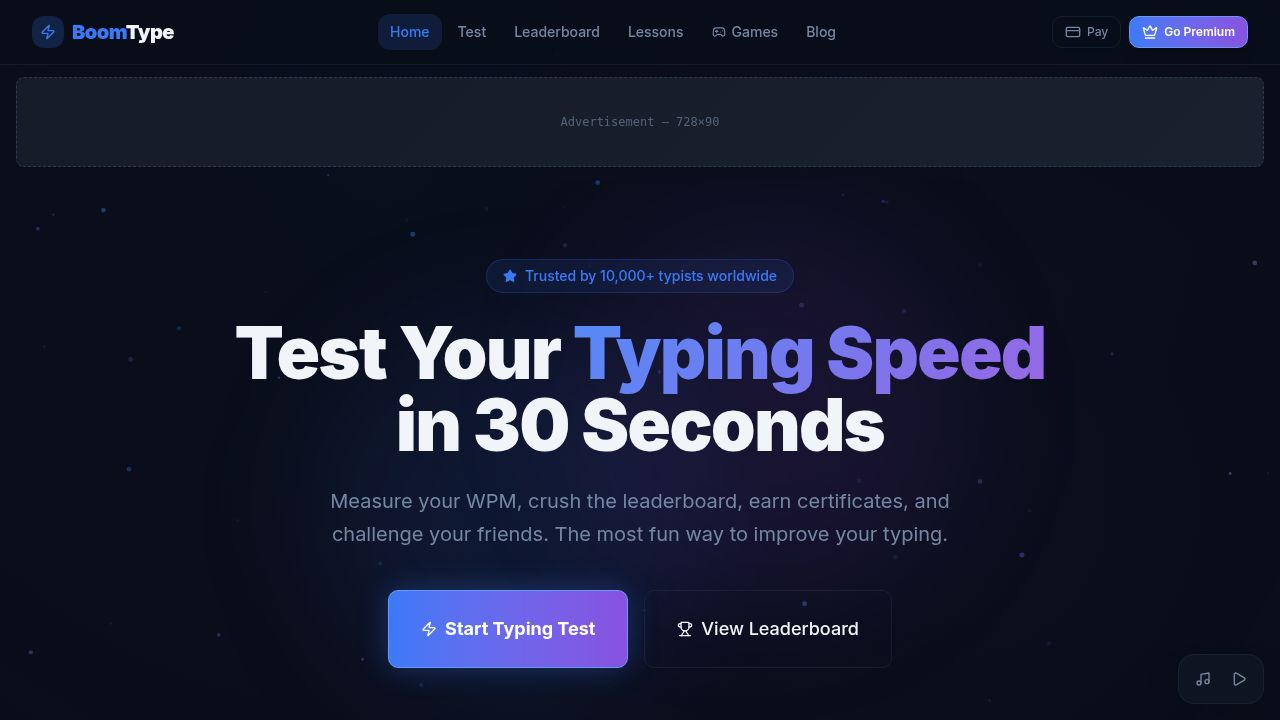
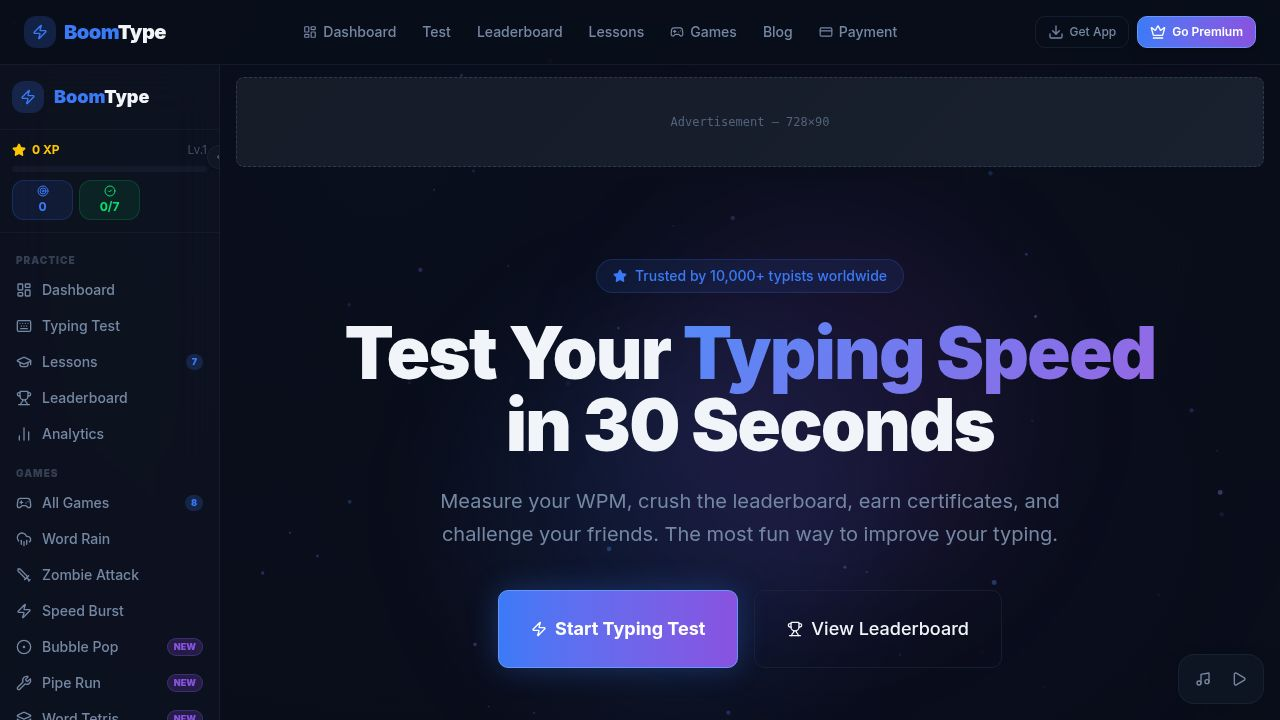
feat: submit mini-game scores to server leaderboard after each game
Task: Submit mini-game scores to the server leaderboard after each game (#5)

## Changes

### Game Pages (WordRain, ZombieAttack, SpeedBurst)
- Imported `useSubmitGameScore` from `@user/api-client-react` in all three game files
- Added the mutation hook inside each component with `onSuccess: () => setScoreSubmitted(true)`
- Replaced the stub `submitToLeaderboard` (which only set local state) with a real API call:
  - WordRain → POST /api/scores/games with game: "word-rain"
  - ZombieAttack → POST /api/scores/games with game: "zombie-attack"
  - SpeedBurst → POST /api/scores/games with game: "speed-burst"
- The nickname input + auto-submit flow was already in place; only the network call was missing
- localStorage high scores are still saved for offline/local display

### Leaderboard Page
- Imported `useGetGameLeaderboard` and `getGetGameLeaderboardQueryKey` from the API client
- Replaced localStorage-only game score display with a live server query
- The mini-game rankings section now fetches `GET /api/scores/games?game=<activeGame>&limit=10`
- Shows ranked entries (rank badge, nickname, score, unit label) with loading state
- Switches query when the active game tab changes (word-rain / zombie-attack / speed-burst)

### Lib rebuild
- Ran `pnpm run typecheck:libs` to update compiled declarations so the new hooks
  (useSubmitGameScore, useGetGameLeaderboard) were available to the frontend typecheck

## Verification
- `pnpm --filter @user/boomtype run typecheck` passes clean
[…]

diff --git a/artifacts/boomtype/src/pages/Leaderboard.tsx b/artifacts/boomtype/src/pages/Leaderboard.tsx
@@ -2,8 +2,13 @@ import { useState, useEffect } from "react";
 import { Link } from "wouter";
 import { motion } from "framer-motion";
 import { Trophy, Medal, CloudRain, Sword, Zap } from "lucide-react";
-import { useGetLeaderboard, getGetLeaderboardQueryKey } from "@workspace/api-client-react";
-import type { GetLeaderboardParams } from "@workspace/api-client-react";
+import {
+  useGetLeaderboard,
+  getGetLeaderboardQueryKey,
+  useGetGameLeaderboard,
+  getGetGameLeaderboardQueryKey,
+} from "@workspace/api-client-react";
+import type { GetLeaderboardParams, GetGameLeaderboardParams } from "@workspace/api-client-react";
 import { getLevelColor } from "@/lib/words";
 import AdBanner from "@/components/AdBanner";
 
@@ -43,11 +48,10 @@ export default function Leaderboard() {
     query: { queryKey: getGetLeaderboardQueryKey(params) }
   });
 
-  const gameHighScores: Record<GameId, number> = {
-    "word-rain":     parseFloat(localStorage.getItem("boomtype_wordrain_hs") || "0"),
-    "zombie-attack": parseFloat(localStorage.getItem("boomtype_zombie_hs") || "0"),
-    "speed-burst":   parseFloat(localStorage.getItem("boomtype_speedburst_hs") || "0"),
-  };
+  const gameParams: GetGameLeaderboardParams = { game: activeGame, limit: 10 };
+  const { data: gameLeaderboard, isLoading: gameLeaderboardLoading } = useGetGameLeaderboard(gameParams, {
+    query: { queryKey: getGetGameLeaderboardQueryKey(gameParams) }
+  });
 
   const rankStyle = (rank: number) => {
     if (rank === 1) return { bg: "bg-yellow-500/15", text: "text-yellow-400", border: "border-yellow-500/30" };
@@ -225,33 +229,33 @@ export default function Leaderboard() {
             </Link>
           </div>
 
-          {gameHighScores[activeGame] > 0 ? (
+          {gameLeaderboardLoading ? (
+            <div className="p-8 text-center">
+              <div className="w-8 h-8 rounded-full border-2 border-primary border-t-transparent animate-spin mx-auto mb-3" />
+              <p className="text-muted-foreground text-sm">Loading rankings...</p>
+            </div>
+          ) : gameLeaderboard && gameLeaderboard.length > 0 ? (
             <div className="divide-y divide-border/40">
-              {GAME_TABS.map((g) => {
-                const hs = parseFloat(localStorage.getItem(
-                  g.value === "word-rain" ? "boomtype_wordrain_hs"
-                  : g.value === "zombie-attack" ? "boomtype_zombie_hs"
-                  : "boomtype_speedburst_hs"
-                ) || "0");
-                if (hs <= 0) return null;
-                const style = g.value === activeGame ? rankStyle(1) : rankStyle(10);
+              {gameLeaderboard.map((entry, i) => {
+                const style = rankStyle(entry.rank);
                 return (
                   <motion.div
-                    key={g.value}
+                    key={entry.nickname}
                     initial={{ opacity: 0, x: -20 }}
                     animate={{ opacity: 1, x: 0 }}
+                    transition={{ delay: i * 0.05 }}
                     className="flex items-center gap-4 p-4"
                   >
                     <div className={`w-9 h-9 rounded-xl flex items-center justify-center text-sm font-black ${style.bg} ${style.text}`}>
-                      <Trophy className="w-4 h-4" />
+                      {entry.rank <= 3 ? <Medal className="w-4 h-4" /> : entry.rank}
                     </div>
                     <div className="flex-1 min-w-0">
-                      <div className="font-semibold truncate">{g.label}</div>
-                      <div className="text-xs text-muted-foreground">Your best score</div>
+                      <div className="font-semibold truncate">{entry.nickname}</div>
+                      <div className="text-xs text-muted-foreground">#{entry.rank} all time</div>
                     </div>
                     <div className="text-right">
-                      <div className={`text-2xl font-black ${g.color}`}>{Math.round(hs)}</div>
-                      <div className="text-xs text-muted-foreground">{SCORE_UNIT[g.value]}</div>
+                      <div className={`text-2xl font-black ${activeGameTab.color}`}>{Math.round(entry.score)}</div>
+                      <div className="text-xs text-muted-foreground">{SCORE_UNIT[activeGame]}</div>
                     </div>
                   </motion.div>
                 );
@@ -260,7 +264,7 @@ export default function Leaderboard() {
           ) : (
             <div className="p-12 text-center">
               <activeGameTab.icon className={`w-12 h-12 ${activeGameTab.color} opacity-30 mx-auto mb-3`} />
-              <p className="text-muted-foreground">No game scores yet — play to set a high score!</p>
+              <p className="text-muted-foreground">No scores yet — be the first to play!</p>
               <Link href={`/games/${activeGame}`} className="inline-block mt-4 text-sm text-primary hover:underline">
                 Play {activeGameTab.label} →
               </Link>

diff --git a/artifacts/boomtype/src/pages/SpeedBurst.tsx b/artifacts/boomtype/src/pages/SpeedBurst.tsx
@@ -6,6 +6,7 @@ import { Button } from "@/components/ui/button";
 import { WORD_LIST } from "@/lib/words";
 import { useGameSounds } from "@/hooks/useGameSounds";
 import { getNickname, setNickname } from "@/lib/storage";
+import { useSubmitGameScore } from "@workspace/api-client-react";
 
 const HIGH_SCORE_KEY = "boomtype_speedburst_hs";
 
@@ -40,6 +41,9 @@ export default function SpeedBurst() {
   const spawnRef = useRef<ReturnType<typeof setInterval> | null>(null);
   const comboRef = useRef(0);
   const { playCorrect, playGameOver, playCombo } = useGameSounds();
+  const { mutate: submitScore } = useSubmitGameScore({
+    mutation: { onSuccess: () => setScoreSubmitted(true) },
+  });
 
   bubblesRef.current = bubbles;
   comboRef.current = combo;
@@ -53,8 +57,8 @@ export default function SpeedBurst() {
   const submitToLeaderboard = useCallback((fs: number, nick: string) => {
     if (!nick.trim() || fs <= 0) return;
     setNickname(nick.trim());
-    setScoreSubmitted(true);
-  }, []);
+    submitScore({ data: { nickname: nick.trim(), game: "speed-burst", score: fs } });
+  }, [submitScore]);
 
   const spawnBubble = useCallback(() => {
     const word = WORD_LIST[Math.floor(Math.random() * WORD_LIST.length)];

diff --git a/artifacts/boomtype/src/pages/WordRain.tsx b/artifacts/boomtype/src/pages/WordRain.tsx
@@ -6,6 +6,7 @@ import { Button } from "@/components/ui/button";
 import { WORD_LIST } from "@/lib/words";
 import { useGameSounds } from "@/hooks/useGameSounds";
 import { getNickname, setNickname } from "@/lib/storage";
+import { useSubmitGameScore } from "@workspace/api-client-react";
 
 const HIGH_SCORE_KEY = "boomtype_wordrain_hs";
 
@@ -42,6 +43,9 @@ export default function WordRain() {
   const scoreRef = useRef(0);
   const finalScoreRef = useRef(0);
   const { playCorrect, playGameOver } = useGameSounds();
+  const { mutate: submitScore } = useSubmitGameScore({
+    mutation: { onSuccess: () => setScoreSubmitted(true) },
+  });
 
   wordsRef.current = words;
   gameStateRef.current = gameState;
@@ -58,8 +62,8 @@ export default function WordRain() {
   const submitToLeaderboard = useCallback((finalScore: number, nick: string) => {
     if (!nick.trim() || finalScore <= 0) return;
     setNickname(nick.trim());
-    setScoreSubmitted(true);
-  }, []);
+    submitScore({ data: { nickname: nick.trim(), game: "word-rain", score: finalScore } });
+  }, [submitScore]);
 
   const spawnWord = useCallback(() => {
     const word = WORD_LIST[Math.floor(Math.random() * WORD_LIST.length)];

diff --git a/artifacts/boomtype/src/pages/ZombieAttack.tsx b/artifacts/boomtype/src/pages/ZombieAttack.tsx
@@ -6,6 +6,7 @@ import { Button } from "@/components/ui/button";
 import { WORD_LIST } from "@/lib/words";
 import { useGameSounds } from "@/hooks/useGameSounds";
 import { getNickname, setNickname } from "@/lib/storage";
+import { useSubmitGameScore } from "@workspace/api-client-react";
 
 const HIGH_SCORE_KEY = "boomtype_zombie_hs";
 
@@ -44,6 +45,9 @@ export default function ZombieAttack() {
   const scoreRef = useRef(0);
   const finalScoreRef = useRef(0);
   const { playCorrect, playGameOver } = useGameSounds();
+  const { mutate: submitScore } = useSubmitGameScore({
+    mutation: { onSuccess: () => setScoreSubmitted(true) },
+  });
 
   zombiesRef.current = zombies;
 
@@ -56,8 +60,8 @@ export default function ZombieAttack() {
   const submitToLeaderboard = useCallback((finalScore: number, nick: string) => {
     if (!nick.trim() || finalScore <= 0) return;
     setNickname(nick.trim());
-    setScoreSubmitted(true);
-  }, []);
+    submitScore({ data: { nickname: nick.trim(), game: "zombie-attack", score: finalScore } });
+  }, [submitScore]);
 
   const spawnZombie = useCallback(() => {
     const word = WORD_LIST[Math.floor(Math.random() * WORD_LIST.length)];